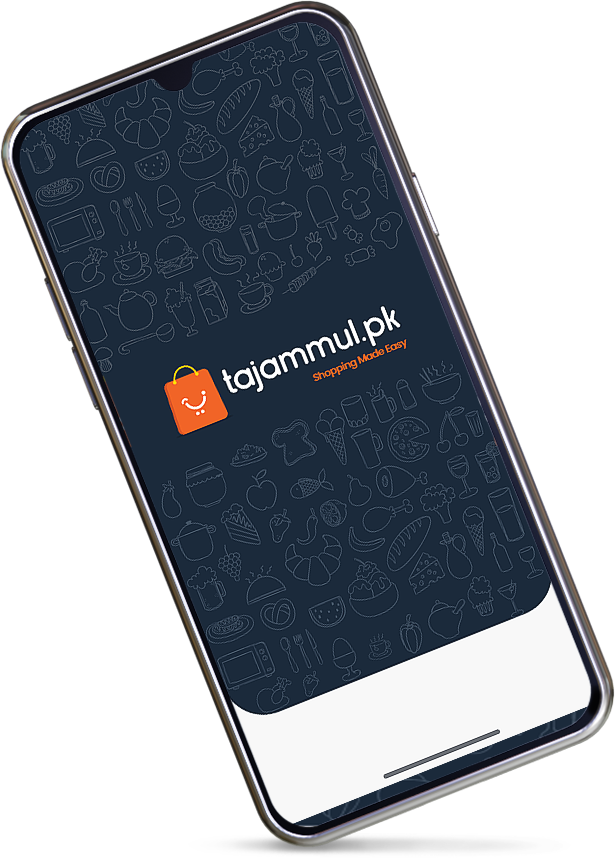
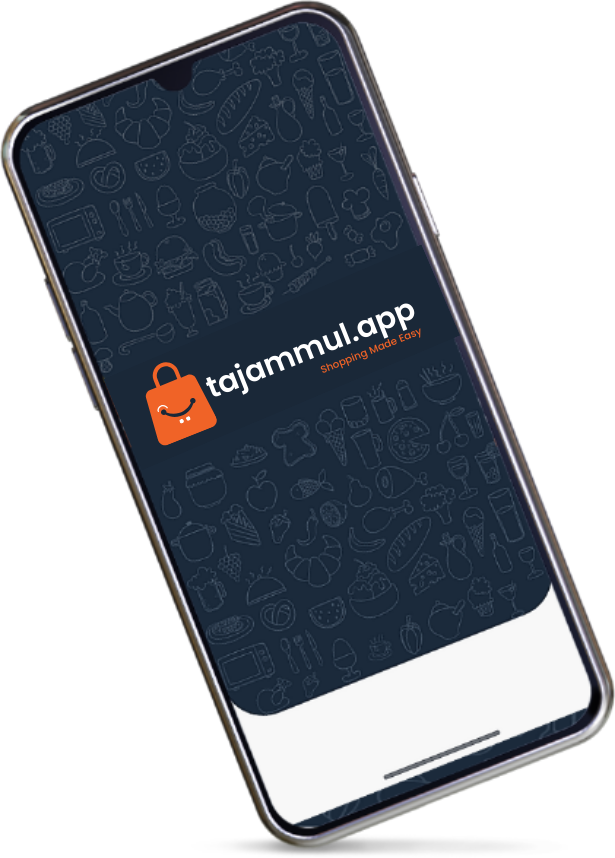
Add files via upload

diff --git a/src/components/Footer.jsx b/src/components/Footer.jsx
@@ -19,9 +19,9 @@ const Footer = () => {
         <p className="text-[#273b60] font-extrabold text-3xl mb-4 pt-[1rem]">
           Get In Touch
         </p>
-        <p className="text-[#273B60]   max-sm:text-[7px] text-[0.7rem] relative top-[1rem] sm:top-[1.5rem]">
-          info@tajammul.app
-        </p>
+        <a href="mailto:contact@tajammul.app" className="text-[#00000]   max-sm:text-[7px] text-[0.7rem] relative top-[1rem] sm:top-[1.5rem]">
+          contact@tajammul.app
+        </a>
         <img
           src={AtTheRate}
           className="text-center h-[4rem] flex justify-center relative top-[-3rem] items-center"
@@ -39,7 +39,7 @@ const Footer = () => {
             <p className="font-bold text-lg mb-2 sm:text-base max-sm:text-[14px]">
               Contact Us
             </p>
-            <p className="text-xs max-sm:text-[10px] hover:text-[#6d96e0] transition-all ease-in-out cursor-pointer">@ info@tajammul.pk</p>
+            <p className="text-xs max-sm:text-[10px] hover:text-[#6d96e0] transition-all ease-in-out cursor-pointer">@ contact@tajammul.app</p>
           </div>
 
           <div className="flex flex-col max-sm:pt-[1rem]">
@@ -69,36 +69,41 @@ const Footer = () => {
           <div className="max-sm:pt-[1rem]">
             <p className="mb-6 font-bold text-lg max-sm:text-[14px]">Social Contacts</p>
             <div className="flex gap-x-2 items-center flex-wrap justify-between">
+              <a href="https://www.facebook.com/tajammulapp/">
               <div
                 style={{ border: "2px solid white" }}
                 className="w-[1.5rem] hover:bg-[#6d96e0] cursor-pointer h-[1.5rem] rounded-full flex justify-center items-center max-sm:w-[1.3rem] max-sm:h-[1.3rem]"
               >
                 <FaFacebookF size={14} />
-              </div>
+              </div></a>
+              <a href="https://twitter.com/TajammulApp">
               <div
                 style={{ border: "2px solid white" }}
                 className="w-[1.5rem] h-[1.5rem] hover:bg-[#6d96e0] cursor-pointer rounded-full flex justify-center items-center max-sm:w-[1.3rem] max-sm:h-[1.3rem]"
               >
                 <FaTwitter size={14} />
-              </div>
+              </div></a>
+              <a href="https://www.linkedin.com/company/tajammul-app/">
               <div
                 style={{ border: "2px solid white" }}
                 className="w-[1.5rem] h-[1.5rem] hover:bg-[#6d96e0] cursor-pointer rounded-full flex justify-center items-center max-sm:w-[1.3rem] max-sm:h-[1.3rem]"
               >
                 <FaLinkedinIn size={14} />
-              </div>
+              </div></a>
+              <a href="https://www.instagram.com/tajammul.app">
               <div
                 style={{ border: "2px solid white" }}
                 className="w-[1.5rem] h-[1.5rem] hover:bg-[#6d96e0] cursor-pointer rounded-full flex justify-center items-center max-sm:w-[1.3rem] max-sm:h-[1.3rem]"
               >
                 <FaInstagram size={14} />
-              </div>
+              </div></a>
+              <a href="https://www.youtube.com/@TajammulApp">
               <div
                 style={{ border: "2px solid white" }}
                 className="w-[1.5rem] h-[1.5rem] hover:bg-[#6d96e0] cursor-pointer rounded-full flex justify-center items-center max-sm:w-[1.3rem] max-sm:h-[1.3rem]"
               >
                 <FaYoutube size={14} />
-              </div>
+              </div></a>
             </div>
           </div>
         </div>
@@ -115,7 +120,7 @@ const Footer = () => {
         {/* FOOTER COPYRIGHT  */}
         <div className=" absolute bottom-2">
           <p className="text-[#273B60] text-center w-screen text-sm max-sm:text-[12px]">
-            Copyright © 2022 tajammul. All Rights Reserved
+            Copyright © 2024 tajammul.app All Rights Reserved
           </p>
         </div>
       </div>

diff --git a/src/components/ServiceOfferings.jsx b/src/components/ServiceOfferings.jsx
@@ -22,10 +22,10 @@ const ServiceOfferings = () => {
         <div className="lg:pl-[2rem] pl-[1rem] flex-1 pt-[8rem] pb-[8rem] md:pt-0 md:pb-0">
           <h1 className="text-3xl font-bold mb-2 text-[#F16427]">Services</h1>
           <h1 className="text-4xl mb-2 font-bold text-[#FDCE0C]">Offerings</h1>
-          <p className="text-[#273b60] text-sm mb-2 lg:w-[80%] tracking-wide w-[97%] sm:w-[90%] m-auto sm:m-0">Are you tired of going to service stations only to discover that they are all full and having to return without getting your services?Tajammul.pk saves the day by allowing you to pre-book your services based on their availability. We keep an updated calendar so that we can provide you with the best possible services. You can now book a time slot and get your services. We offer salon, clinical, catering, decoration, auto mechanic, and plumbing services, as well as the option of hiring labor or maids for home services. Save yourself hours of waiting in lines by scheduling your services according to your availability.</p>
+          <p className="text-[#273b60] text-sm mb-2 lg:w-[80%] tracking-wide w-[97%] sm:w-[90%] m-auto sm:m-0">Are you tired of going to service stations only to discover that they are all full and having to return without getting your services?Tajammul.app saves the day by allowing you to pre-book your services based on their availability. We keep an updated calendar so that we can provide you with the best possible services. You can now book a time slot and get your services. We offer salon, clinical, catering, decoration, auto mechanic, and plumbing services, as well as the option of hiring labor or maids for home services. Save yourself hours of waiting in lines by scheduling your services according to your availability.</p>
         </div>
 
-        <div className="flex-1 relative flex justify-center  items-center bg-[#051c45] h-[25rem] pt-3">
+        <div className="flex-1 relative flex justify-center  items-center bg-[#26395e] h-[25rem] pt-3">
         <img src={serviceGif} alt="" className="h-[24rem] relative left-[10rem] " />
           <img src={RLImage} alt="" className="h-[13rem] mr-[-2rem] relative right-[11.5rem]" />
           <img src={RICenter} alt="" className="h-[18rem] z-50 relative right-[11.5rem]" />

diff --git a/src/components/Navbar.jsx b/src/components/Navbar.jsx
@@ -62,25 +62,25 @@ const Navbar = () => {
 
           <div className="flex gap-x-3 items-center">
             <a
-              href="#"
+              href="https://www.facebook.com/tajammulapp/"
               className="hover:text-white hover:scale-110 transition-transform "
             >
               <FaFacebookF className="text-[#F16427] text-sm lg:text-lg cursor-pointer hover:text-blue-400 " />
             </a>
             <a
-              href="#"
+              href="https://www.instagram.com/tajammul.app"
               className="hover:text-white hover:scale-110 transition-transform"
             >
               <FaInstagram className="text-[#F16427] text-sm lg:text-lg cursor-pointer hover:text-purple-500" />
             </a>
             <a
-              href="#"
+              href="https://twitter.com/TajammulApp"
               className="hover:text-white hover:scale-110 transition-transform"
             >
               <FaTwitter className="text-[#F16427] text-sm lg:text-lg cursor-pointer hover:text-blue-500" />
             </a>
             <a
-              href="#"
+              href="https://www.linkedin.com/company/tajammul-app/"
               className="hover:text-white hover:scale-110 transition-transform"
             >
               <FaLinkedinIn className="text-[#F16427] text-sm lg:text-lg cursor-pointer hover:text-blue-700" />

diff --git a/src/components/DownloadApp.jsx b/src/components/DownloadApp.jsx
@@ -32,11 +32,11 @@ const DownloadApp = () => {
                     />
                     </div> */}
                     <div className="flex gap-4 items-center mt-3">
-  <img
+  <a href="https://play.google.com/store/apps/details?id=com.tajammul_customer&pcampaignid=web_share"><img
     src={GoogleButton}
     alt=""
     className="h-[2.8rem] transition-transform duration-300 transform hover:scale-110 hover:shadow-md  cursor-pointer"
-  />
+  /></a>
   <img
     src={AppleButton}
     alt=""

diff --git a/src/components/PolicyCustomer.jsx b/src/components/PolicyCustomer.jsx
@@ -67,7 +67,7 @@ const PolicyCustomer = () => {
       <h2 className="text-xl font-bold mb-2">7. Contact Information</h2>
       <p className="my-2">
         If you have any questions or concerns about this Privacy Policy, please contact us at{' '}
-        <a className="text-blue-500" href="mailto:contact@tajammulapp.com">contact@tajammulapp.com</a>.
+        <a className="text-blue-500" href="mailto:contact@tajammulapp.com">contact@tajammul.app</a>.
       </p>
 
       <p className="my-4">

diff --git a/src/components/PolicyBusiness.jsx b/src/components/PolicyBusiness.jsx
@@ -67,7 +67,7 @@ const PolicyBusiness = () => {
       <h2 className="text-xl font-bold mb-2">7. Contact Information</h2>
       <p className="my-2">
         If you have any questions or concerns about this Privacy Policy, please contact us at{' '}
-        <a className="text-blue-500" href="mailto:contact@tajammulapp.com">contact@tajammulapp.com</a>.
+        <a className="text-blue-500" href="mailto:contact@tajammul.app">contact@tajammul.app</a>.
       </p>
 
       <p className="my-4">
